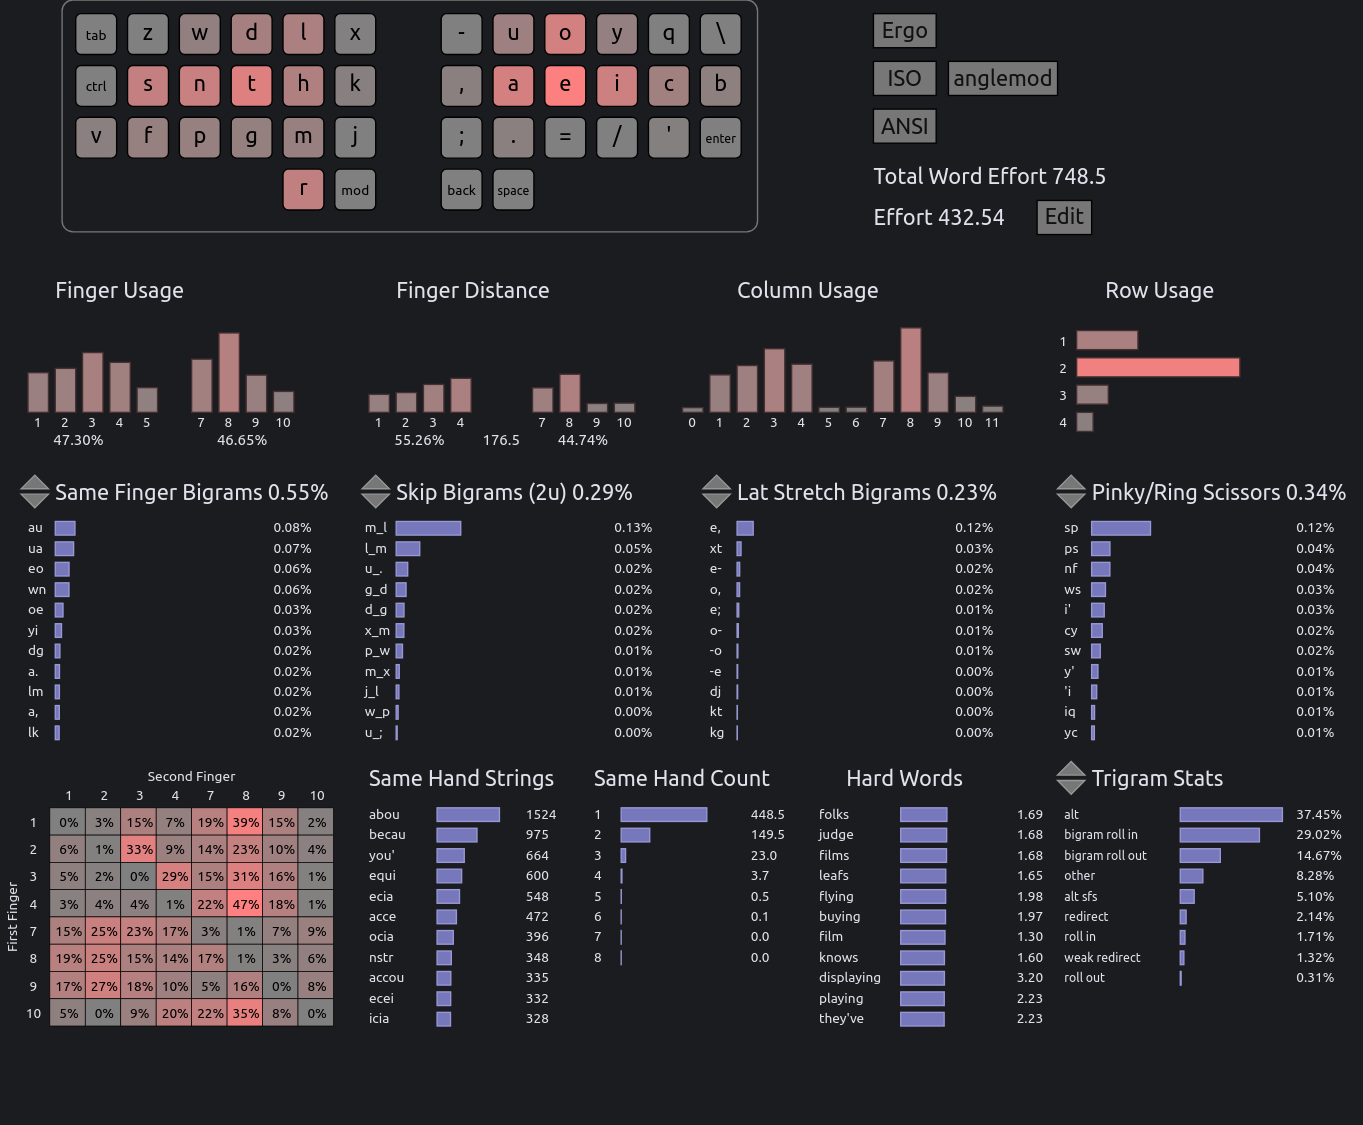
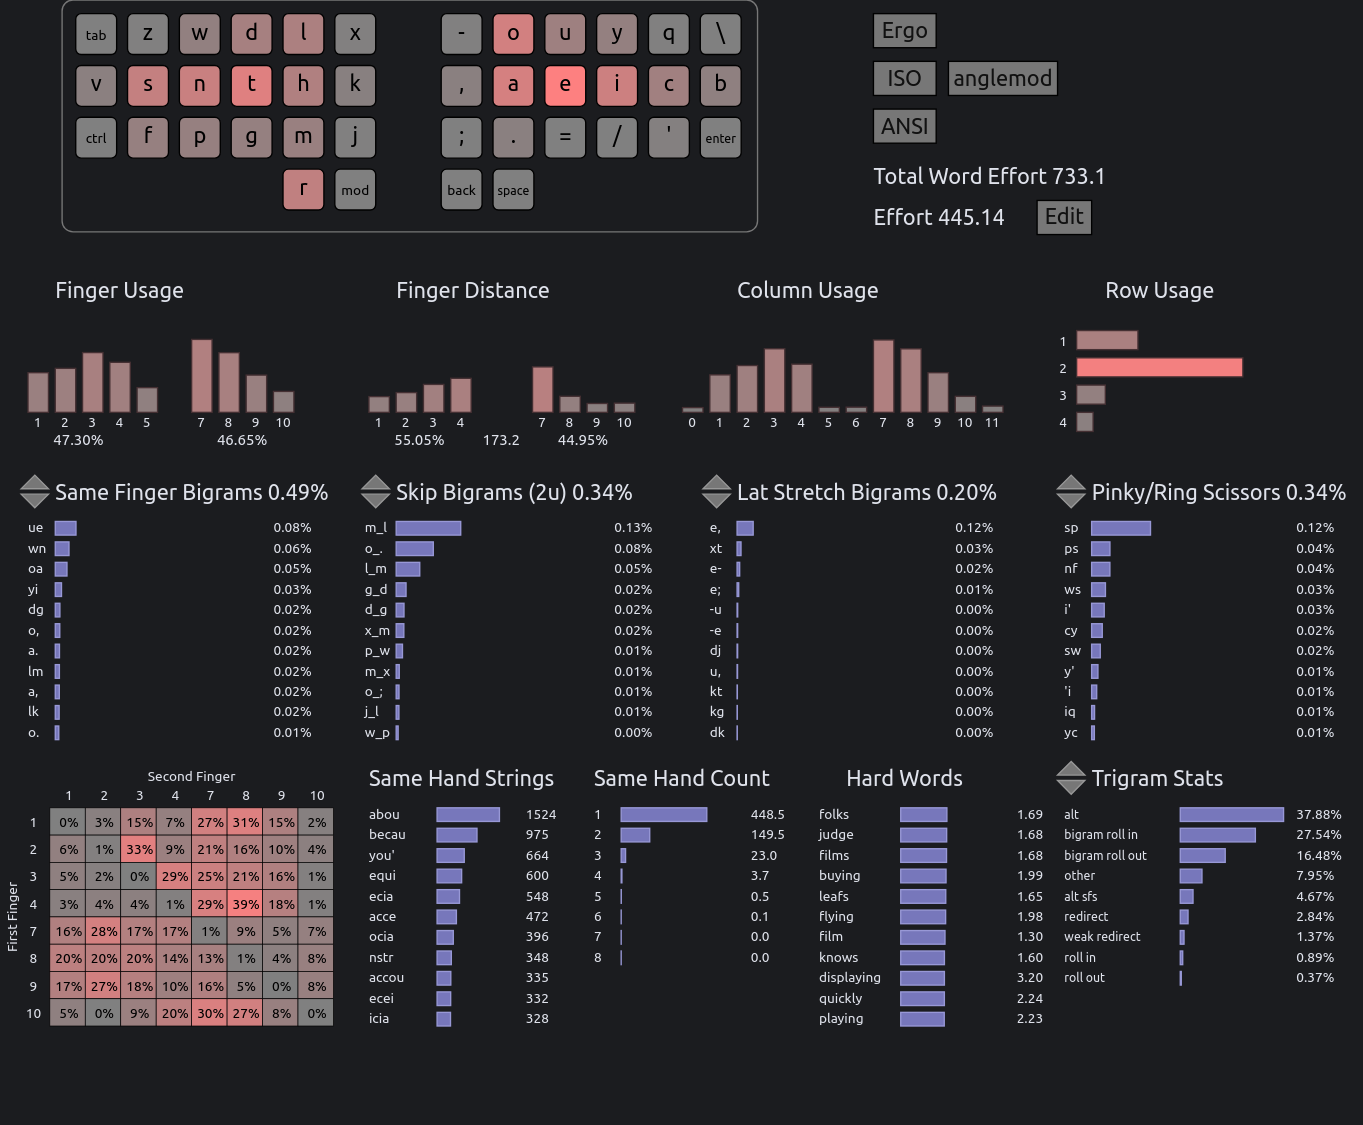
cyanophage: swap O/U for less 0.49% SFB, 0.20% LSB
https://reddit.com/r/KeyboardLayouts/comments/1l5ei0j/_/mwgusgt/

diff --git a/README.md b/README.md
@@ -24,7 +24,7 @@ days (start Friday and use weekend), to unlock all letters in [KeyBr] training.
 
 ## Layout
 
-      q y o u - x l d w z
+      q y u o - x l d w z
     b c i e a , k h t n s v
       ' / = . ; j m g p f
                 r
@@ -39,6 +39,7 @@ https://github.com/sunaku/glove80-keymaps/raw/main/README/base-layer-diagram-Ent
 * [Rationale](#rationale)
   * [Deviation: PF and WV](#deviation-pf-and-wv)
   * [Deviation: B and V](#deviation-b-and-v)
+  * [Deviation: O and U](#deviation-o-and-u)
 * [Performance](#performance)
   * [Cyanophage analyzer](#cyanophage-analyzer)
   * [KeySolve analyzer](#keysolve-analyzer)
@@ -120,36 +121,49 @@ The other analyzers don't fully comprehend the placement of lateral pinky keys,
 as explained in the note at the top of each analyzer's respective subheading,
 but Oxey's analyzer reports a notable reduction in SFBs from 0.829% to 0.818%.
 
+### Deviation: O and U
+
+O and U are swapped (changing the inward-rolling YOU into a redirecting YUO) to
+distribute finger workload more evenly (especially for the middle finger) and
+to avoid same-finger bigrams on AU (as in "*au*thor") and EO (as in "p*eo*ple").
+
+This change was [suggested by the creator of Cyanophage's Analyzer himself](
+https://reddit.com/r/KeyboardLayouts/comments/1l5ei0j/_/mwgusgt/ ) 🤩 since it
+reduced SFBs from 0.55% to 0.49% and LSBs from 0.23% to 0.20% in his analyzer.
+Similarly, it reduces SFBs to 0.795% in Oxey's analyzer, elevating this layout
+to [🥇 first place](#comparison) in Pascal Getreuer's famous performance table
+for both SFB and LSB categories!
+
 ## Performance
 
 ### [Cyanophage analyzer][cNT]
 
 > **NOTE:** This analyzer currently has a limitation where it only supports
-> placing a letter on the left thumb and not on the right, so this layout is
+> links with a letter on the left thumb, not on the right; so this layout is
 > mirrored horizontally for analysis.  Mirroring doesn't affect the results.
 
 ![Screenshot](stats/enthium/cyanophage.png)
 
 Overall stats:
-* Total Word Effort: 748.5
-* Effort:            432.54
+* Total Word Effort: 733.1
+* Effort:            445.14
 
 Finger usage:
-* Same Finger Bigrams: 0.55%
-* Skip Bigrams (2u):   0.29%
-* Lat Stretch Bigrams: 0.23%
+* Same Finger Bigrams: 0.49%
+* Skip Bigrams (2u):   0.34%
+* Lat Stretch Bigrams: 0.20%
 * Pinky/Ring Scissors: 0.34%
 
 Trigram stats:
-* alt:             37.45%
-* bigram roll in:  29.02%
-* bigram roll out: 14.67%
-* other:           8.28%
-* alt sfs:         5.10%
-* redirect:        2.14%
-* roll in:         1.71%
-* weak redirect:   1.32%
-* roll out:        0.31%
+* alt:             37.88%
+* bigram roll in:  27.54%
+* bigram roll out: 16.48%
+* other:           7.95%
+* alt sfs:         4.67%
+* redirect:        2.84%
+* weak redirect:   1.37%
+* roll in:         0.89%
+* roll out:        0.37%
 
 ### [KeySolve analyzer](https://grassfedreeve.github.io/keysolve-web/)
 
@@ -165,19 +179,19 @@ Trigram stats:
 
 Overall stats:
 
-    BIGRAMS     SFB: 0.97%      LSB: 0.44%      HSB: 4.79%      FSB: 0.35%
-    SKIPGRAMS   SFS: 6.99%      LSS: 0.92%      HSS: 4.66%      FSS: 0.38%
-    TRIGRAMS    ALT: 41.24%     ROL: 40.71%     ONE: 2.47%      RED: 1.66%
+    BIGRAMS     SFB: 0.76%      LSB: 0.43%      HSB: 4.86%      FSB: 0.35%
+    SKIPGRAMS   SFS: 6.33%      LSS: 0.73%      HSS: 5.88%      FSS: 0.38%
+    TRIGRAMS    ALT: 41.24%     ROL: 41.16%     ONE: 1.29%      RED: 2.93%
 
 Finger usage:
 
-    LEFT        LI: 13.91%      LM: 20.17%      LR: 8.70%       LP: 3.05%
+    LEFT        LI: 18.75%      LM: 15.33%      LR: 8.70%       LP: 3.05%
     RIGHT       RI: 13.12%      RM: 14.59%      RR: 10.60%      RP: 7.94%
     TOTAL               LH: 45.83%                      RH: 54.17%
 
 Custom source for copy/paste:
 
-    q y o u - x l d w z
+    q y u o - x l d w z
     c i e a , k h t n s
     ' / = . ; j m g p f
     r b v
@@ -193,28 +207,28 @@ Custom source for copy/paste:
 ![Screenshot](stats/enthium/oxey.png)
 
 Overall stats:
-* Sfb:              0.811%
-* Dsfb:             6.286%
-* Lsb:              0.372%
-* Inrolls:          29.442%
-* Outrolls:         15.841%
-* Total Rolls:      45.283%
-* Onehands:         2.348%
-* Alternates:       31.877%
-* Alternates (sfs): 7.284%
-* Total Alternates: 39.161%
-* Redirects:        3.864%
-* BadRedirects:     1.002%
-* Total Redirects:  4.866%
-* Other:            8.341%
+* Sfb:              0.795%
+* Dsfb:             6.360%
+* Lsb:              0.328%
+* Inrolls:          27.415%
+* Outrolls:         16.531%
+* Total Rolls:      43.945%
+* Onehands:         1.579%
+* Alternates:       34.297%
+* Alternates (sfs): 7.962%
+* Total Alternates: 42.259%
+* Redirects:        2.955%
+* BadRedirects:     1.033%
+* Total Redirects:  3.988%
+* Other:            8.228%
 * Invalid:          0.001%
 
 Finger usage:
 
     finger 0:   3.63%   finger 9:       8.60%
     finger 1:   9.08%   finger 8:       10.65%
-    finger 2:   19.30%  finger 7:       14.56%
-    finger 3:   13.28%  finger 6:       12.33%
+    finger 2:   14.58%  finger 7:       14.56%
+    finger 3:   18.00%  finger 6:       12.33%
 
     Left hand:   45.29% Right hand:     46.14%
     Left center: 1.384% Right center:   1.189%
@@ -225,8 +239,8 @@ Sfb% per finger:
 
     finger 0:   0.011%  finger 9:       0.024%
     finger 1:   0.047%  finger 8:       0.100%
-    finger 2:   0.122%  finger 7:       0.051%
-    finger 3:   0.339%  finger 6:       0.114%
+    finger 2:   0.148%  finger 7:       0.051%
+    finger 3:   0.237%  finger 6:       0.114%
 
 ### Comparison
 
@@ -242,10 +256,10 @@ The [keyboard layout community][rKL] commonly recommends [Pascal Getreuer's
 guide and comparison table][PGt] as a starting point for layout exploration,
 and you'll see that Enthium is among the best (statistically) layouts there:
 
-* 0.811% SFBs -- wins 🥈 second place; surpassed by Focal
-* 0.372% LSBs -- wins 🥇 first place; beats the entire table!
-* 45.283% rolls -- beats Nerps, Gallium, MTGAP, Graphite, Dvorak, Halmak, etc.
-* 4.866% redirects -- beats MTGAP, Sturdy, Recurva, APTv3, Canary, Colemak, etc.
+* 0.795% SFBs -- wins 🥇 first place; beats the entire table!
+* 0.328% LSBs -- wins 🥇 first place; beats the entire table!
+* 43.945% rolls -- beats MTGAP, Graphite, Workman, Semimak, Engram, Dvorak, Halmak, etc.
+* 3.988% redirects -- beats Focal, MTGAP, Sturdy, Recurva, APTv3, Canary, Colemak, etc.
 * 2.80% pinky off _excluding_ lateral -- beats Graphite, Canary, Gallium, MTGAP, etc.
   * `Q` (0.10%) + `'` (0.48%) + `Z` (0.10%) + `F` (2.12%)
 * 5.35% pinky off _including_ lateral -- beats Engram, Halmak; surpassed by the rest
@@ -256,7 +270,7 @@ and you'll see that Enthium is among the best (statistically) layouts there:
 
 For completeness, I've tabulated all [statistics for this and related layouts]( stats/ ):
 
-[cNT]: https://cyanophage.github.io/playground.html?layout=zwdlx-uoyq%5Csnthk%2Caeicbfpgmj%3B.%3D%2F%27vr&mode=ergo&lan=english
+[cNT]: https://cyanophage.github.io/playground.html?layout=zwdlx-ouyq%5Csnthk%2Caeicbfpgmj%3B.%3D%2F%27vr&mode=ergo&lan=english
 [cPM]: https://cyanophage.github.io/playground.html?layout=fpdlx%3Buoybzsnthk%2Caeicqvwgmj-.%27%3D%2F%5Cr&mode=ergo&lan=english
 [cNG]: https://cyanophage.github.io/playground.html?layout=byou%27%3Bldwvzciea%2C.htsnqgxjk-%2Frmfp%5C%5E&mode=ergo&lan=english
 [cDV]: https://cyanophage.github.io/playground.html?layout=%27%2C.pyfgcrl%2Faoeuidhtns-%3Bqjkxbmwvz%5C%5E&mode=ergo&lan=english
@@ -264,25 +278,25 @@ For completeness, I've tabulated all [statistics for this and related layouts]( 
 
 | Analyzer   | Category  | Statistic           | [Enthium][cNT] | [Promethium][cPM] | [Engrammer][cNG] | [Dvorak][cDV] | [Colemak-DH][cCD] |
 | ---------- | --------- | ------------------- | -------------- | ----------------- | ---------------- | ------------- | ----------------- |
-| Oxey's     | Bigrams   | SFB                 | 0.811%         | 0.868%            | 1.511%           | 2.779%        | 1.367%            |
-| Oxey's     | Bigrams   | DSFB                | 6.286%         | 6.761%            | 7.620%           | 6.979%        | 8.767%            |
-| Oxey's     | Bigrams   | LSB                 | 0.372%         | 0.404%            | 0.671%           | 1.255%        | 1.975%            |
-| Oxey's     | Trigrams  | Inrolls             | 29.442%        | 29.333%           | 28.273%          | 23.820%       | 25.173%           |
-| Oxey's     | Trigrams  | Outrolls            | 15.841%        | 14.526%           | 14.050%          | 15.104%       | 20.940%           |
-| Oxey's     | Trigrams  | Total Rolls         | 45.283%        | 43.858%           | 42.323%          | 38.924%       | 46.113%           |
-| Oxey's     | Trigrams  | Onehands            | 2.348%         | 2.189%            | 2.146%           | 0.624%        | 2.484%            |
-| Oxey's     | Trigrams  | Alternates          | 31.877%        | 33.770%           | 32.483%          | 35.769%       | 22.913%           |
-| Oxey's     | Trigrams  | Alternates (SFS)    | 7.284%         | 8.205%            | 8.752%           | 8.787%        | 7.461%            |
-| Oxey's     | Trigrams  | Total Alternates    | 39.161%        | 41.974%           | 41.235%          | 44.556%       | 30.375%           |
-| Oxey's     | Trigrams  | Redirects           | 3.864%         | 2.273%            | 3.103%           | 2.639%        | 9.081%            |
-| Oxey's     | Trigrams  | BadRedirects        | 1.002%         | 1.236%            | 1.386%           | 0.818%        | 1.498%            |
-| Oxey's     | Trigrams  | Total Redirects     | 4.866%         | 3.509%            | 4.489%           | 3.458%        | 10.579%           |
-| Oxey's     | Trigrams  | Other               | 8.341%         | 8.468%            | 9.806%           | 12.437%       | 9.202%            |
+| Oxey's     | Bigrams   | SFB                 | 0.795%         | 0.868%            | 1.511%           | 2.779%        | 1.367%            |
+| Oxey's     | Bigrams   | DSFB                | 6.360%         | 6.761%            | 7.620%           | 6.979%        | 8.767%            |
+| Oxey's     | Bigrams   | LSB                 | 0.328%         | 0.404%            | 0.671%           | 1.255%        | 1.975%            |
+| Oxey's     | Trigrams  | Inrolls             | 27.415%        | 29.333%           | 28.273%          | 23.820%       | 25.173%           |
+| Oxey's     | Trigrams  | Outrolls            | 16.531%        | 14.526%           | 14.050%          | 15.104%       | 20.940%           |
+| Oxey's     | Trigrams  | Total Rolls         | 43.945%        | 43.858%           | 42.323%          | 38.924%       | 46.113%           |
+| Oxey's     | Trigrams  | Onehands            | 1.579%         | 2.189%            | 2.146%           | 0.624%        | 2.484%            |
+| Oxey's     | Trigrams  | Alternates          | 34.297%        | 33.770%           | 32.483%          | 35.769%       | 22.913%           |
+| Oxey's     | Trigrams  | Alternates (SFS)    | 7.962%         | 8.205%            | 8.752%           | 8.787%        | 7.461%            |
+| Oxey's     | Trigrams  | Total Alternates    | 42.259%        | 41.974%           | 41.235%          | 44.556%       | 30.375%           |
+| Oxey's     | Trigrams  | Redirects           | 2.955%         | 2.273%            | 3.103%           | 2.639%        | 9.081%            |
+| Oxey's     | Trigrams  | BadRedirects        | 1.033%         | 1.236%            | 1.386%           | 0.818%        | 1.498%            |
+| Oxey's     | Trigrams  | Total Redirects     | 3.988%         | 3.509%            | 4.489%           | 3.458%        | 10.579%           |
+| Oxey's     | Trigrams  | Other               | 8.228%         | 8.468%            | 9.806%           | 12.437%       | 9.202%            |
 | Oxey's     | Trigrams  | Invalid             | 0.001%         | 0.001%            | 0.001%           | 0.001%        | 1.248%            |
 | Oxey's     | Usage     | Finger 0            | 3.63%          | 9.56%             | 6.58%            | 8.50%         | 8.12%             |
 | Oxey's     | Usage     | Finger 1            | 9.08%          | 10.65%            | 9.21%            | 8.72%         | 8.04%             |
-| Oxey's     | Usage     | Finger 2            | 19.30%         | 14.56%            | 19.47%           | 12.99%        | 11.55%            |
-| Oxey's     | Usage     | Finger 3            | 13.28%         | 12.33%            | 13.35%           | 14.95%        | 19.19%            |
+| Oxey's     | Usage     | Finger 2            | 14.58%         | 14.56%            | 19.47%           | 12.99%        | 11.55%            |
+| Oxey's     | Usage     | Finger 3            | 18.00%         | 12.33%            | 13.35%           | 14.95%        | 19.19%            |
 | Oxey's     | Usage     | Finger 6            | 12.33%         | 13.28%            | 16.04%           | 16.33%        | 18.88%            |
 | Oxey's     | Usage     | Finger 7            | 14.56%         | 19.77%            | 14.93%           | 13.73%        | 15.60%            |
 | Oxey's     | Usage     | Finger 8            | 10.65%         | 9.01%             | 10.31%           | 13.84%        | 10.11%            |
@@ -294,26 +308,26 @@ For completeness, I've tabulated all [statistics for this and related layouts]( 
 | Oxey's     | Usage     | Home keys           | 56.37%         | 56.37%            | 56.37%           | 56.70%        | 62.31%            |
 | Oxey's     | SFB%      | Finger 0            | 0.011%         | 0.028%            | 0.012%           | 0.020%        | 0.041%            |
 | Oxey's     | SFB%      | Finger 1            | 0.047%         | 0.100%            | 0.089%           | 0.028%        | 0.047%            |
-| Oxey's     | SFB%      | Finger 2            | 0.122%         | 0.051%            | 0.230%           | 0.253%        | 0.186%            |
-| Oxey's     | SFB%      | Finger 3            | 0.339%         | 0.114%            | 0.591%           | 1.075%        | 0.219%            |
+| Oxey's     | SFB%      | Finger 2            | 0.148%         | 0.051%            | 0.230%           | 0.253%        | 0.186%            |
+| Oxey's     | SFB%      | Finger 3            | 0.237%         | 0.114%            | 0.591%           | 1.075%        | 0.219%            |
 | Oxey's     | SFB%      | Finger 6            | 0.114%         | 0.339%            | 0.380%           | 0.433%        | 0.388%            |
 | Oxey's     | SFB%      | Finger 7            | 0.051%         | 0.185%            | 0.053%           | 0.494%        | 0.341%            |
 | Oxey's     | SFB%      | Finger 8            | 0.100%         | 0.040%            | 0.098%           | 0.256%        | 0.137%            |
 | Oxey's     | SFB%      | Finger 9            | 0.024%         | 0.011%            | 0.058%           | 0.220%        | 0.007%            |
-| KeySolve   | Bigrams   | SFB                 | 0.97%          | 0.94%             | 1.56%            | 2.62%         | 1.49%             |
-| KeySolve   | Bigrams   | LSB                 | 0.44%          | 0.45%             | 0.98%            | 1.17%         | 2.21%             |
-| KeySolve   | Bigrams   | HSB                 | 4.79%          | 6.04%             | 3.02%            | 6.11%         | 5.93%             |
+| KeySolve   | Bigrams   | SFB                 | 0.76%          | 0.94%             | 1.56%            | 2.62%         | 1.49%             |
+| KeySolve   | Bigrams   | LSB                 | 0.43%          | 0.45%             | 0.98%            | 1.17%         | 2.21%             |
+| KeySolve   | Bigrams   | HSB                 | 4.86%          | 6.04%             | 3.02%            | 6.11%         | 5.93%             |
 | KeySolve   | Bigrams   | FSB                 | 0.35%          | 0.26%             | 0.30%            | 0.14%         | 0.37%             |
-| KeySolve   | Skipgrams | SFS                 | 6.99%          | 7.02%             | 7.50%            | 7.00%         | 7.95%             |
-| KeySolve   | Skipgrams | LSS                 | 0.92%          | 0.93%             | 1.34%            | 4.48%         | 1.75%             |
-| KeySolve   | Skipgrams | HSS                 | 4.66%          | 6.11%             | 6.91%            | 8.56%         | 6.49%             |
+| KeySolve   | Skipgrams | SFS                 | 6.33%          | 7.02%             | 7.50%            | 7.00%         | 7.95%             |
+| KeySolve   | Skipgrams | LSS                 | 0.73%          | 0.93%             | 1.34%            | 4.48%         | 1.75%             |
+| KeySolve   | Skipgrams | HSS                 | 5.88%          | 6.11%             | 6.91%            | 8.56%         | 6.49%             |
 | KeySolve   | Skipgrams | FSS                 | 0.38%          | 0.78%             | 0.81%            | 1.22%         | 0.78%             |
 | KeySolve   | Trigrams  | ALT                 | 41.24%         | 40.37%            | 39.59%           | 41.70%        | 27.58%            |
-| KeySolve   | Trigrams  | ROL                 | 40.71%         | 40.84%            | 39.35%           | 37.19%        | 42.78%            |
-| KeySolve   | Trigrams  | ONE                 | 2.47%          | 2.66%             | 2.65%            | 0.43%         | 2.45%             |
-| KeySolve   | Trigrams  | RED                 | 1.66%          | 1.78%             | 2.65%            | 2.25%         | 6.74%             |
-| KeySolve   | Usage     | LI                  | 13.91%         | 13.91%            | 13.91%           | 14.56%        | 18.82%            |
-| KeySolve   | Usage     | LM                  | 20.17%         | 20.92%            | 20.30%           | 13.96%        | 10.18%            |
+| KeySolve   | Trigrams  | ROL                 | 41.16%         | 40.84%            | 39.35%           | 37.19%        | 42.78%            |
+| KeySolve   | Trigrams  | ONE                 | 1.29%          | 2.66%             | 2.65%            | 0.43%         | 2.45%             |
+| KeySolve   | Trigrams  | RED                 | 2.93%          | 1.78%             | 2.65%            | 2.25%         | 6.74%             |
+| KeySolve   | Usage     | LI                  | 18.75%         | 13.91%            | 13.91%           | 14.56%        | 18.82%            |
+| KeySolve   | Usage     | LM                  | 15.33%         | 20.92%            | 20.30%           | 13.96%        | 10.18%            |
 | KeySolve   | Usage     | LR                  | 8.70%          | 8.70%             | 8.83%            | 9.55%         | 7.83%             |
 | KeySolve   | Usage     | LP                  | 3.05%          | 3.64%             | 5.72%            | 8.24%         | 7.63%             |
 | KeySolve   | Usage     | RI                  | 13.12%         | 13.12%            | 16.52%           | 16.90%        | 20.00%            |
@@ -322,21 +336,21 @@ For completeness, I've tabulated all [statistics for this and related layouts]( 
 | KeySolve   | Usage     | RP                  | 7.94%          | 8.95%             | 9.47%            | 10.08%        | 8.16%             |
 | KeySolve   | Total     | LH                  | 45.83%         | 47.18%            | 48.75%           | 46.31%        | 44.46%            |
 | KeySolve   | Total     | RH                  | 54.17%         | 52.82%            | 51.25%           | 53.69%        | 55.54%            |
-| Cyanophage | Summary   | Total Word Effort   | 748.5          | 732.3             | 899.8            | 1185.5        | 1048.2            |
-| Cyanophage | Summary   | Effort              | 432.54         | 398.07            | 457.44           | 769.78        | 535.05            |
-| Cyanophage | Bigrams   | Same Finger Bigrams | 0.55%          | 0.58%             | 0.99%            | 1.87%         | 0.91%             |
-| Cyanophage | Bigrams   | Skip Bigrams (2u)   | 0.29%          | 0.36%             | 0.39%            | 0.45%         | 0.41%             |
-| Cyanophage | Bigrams   | Lat Stretch Bigrams | 0.23%          | 0.24%             | 0.41%            | 0.80%         | 1.27%             |
+| Cyanophage | Summary   | Total Word Effort   | 733.1          | 732.3             | 899.8            | 1185.5        | 1048.2            |
+| Cyanophage | Summary   | Effort              | 445.14         | 398.07            | 457.44           | 769.78        | 535.05            |
+| Cyanophage | Bigrams   | Same Finger Bigrams | 0.49%          | 0.58%             | 0.99%            | 1.87%         | 0.91%             |
+| Cyanophage | Bigrams   | Skip Bigrams (2u)   | 0.34%          | 0.36%             | 0.39%            | 0.45%         | 0.41%             |
+| Cyanophage | Bigrams   | Lat Stretch Bigrams | 0.20%          | 0.24%             | 0.41%            | 0.80%         | 1.27%             |
 | Cyanophage | Bigrams   | Pinky/Ring Scissors | 0.34%          | 0.42%             | 0.71%            | 0.40%         | 0.65%             |
-| Cyanophage | Trigrams  | Alt                 | 37.45%         | 36.98%            | 35.62%           | 39.08%        | 25.43%            |
-| Cyanophage | Trigrams  | Alt SFS             | 5.10%          | 5.27%             | 5.93%            | 5.85%         | 5.47%             |
-| Cyanophage | Trigrams  | Roll in             | 1.71%          | 1.37%             | 1.82%            | 0.86%         | 1.50%             |
-| Cyanophage | Trigrams  | Roll out            | 0.31%          | 0.11%             | 0.29%            | 0.27%         | 0.98%             |
-| Cyanophage | Trigrams  | Bigram roll in      | 29.02%         | 29.18%            | 28.14%           | 23.51%        | 25.18%            |
-| Cyanophage | Trigrams  | Bigram roll out     | 14.67%         | 14.56%            | 14.03%           | 15.14%        | 21.55%            |
-| Cyanophage | Trigrams  | Redirect            | 2.14%          | 2.03%             | 3.05%            | 2.57%         | 9.22%             |
-| Cyanophage | Trigrams  | Weak redirect       | 1.32%          | 1.30%             | 1.40%            | 0.28%         | 1.52%             |
-| Cyanophage | Trigrams  | Other               | 8.28%          | 9.20%             | 9.72%            | 12.44%        | 9.17%             |
+| Cyanophage | Trigrams  | Alt                 | 37.88%         | 36.98%            | 35.62%           | 39.08%        | 25.43%            |
+| Cyanophage | Trigrams  | Alt SFS             | 4.67%          | 5.27%             | 5.93%            | 5.85%         | 5.47%             |
+| Cyanophage | Trigrams  | Roll in             | 0.89%          | 1.37%             | 1.82%            | 0.86%         | 1.50%             |
+| Cyanophage | Trigrams  | Roll out            | 0.37%          | 0.11%             | 0.29%            | 0.27%         | 0.98%             |
+| Cyanophage | Trigrams  | Bigram roll in      | 27.54%         | 29.18%            | 28.14%           | 23.51%        | 25.18%            |
+| Cyanophage | Trigrams  | Bigram roll out     | 16.48%         | 14.56%            | 14.03%           | 15.14%        | 21.55%            |
+| Cyanophage | Trigrams  | Redirect            | 2.84%          | 2.03%             | 3.05%            | 2.57%         | 9.22%             |
+| Cyanophage | Trigrams  | Weak redirect       | 1.37%          | 1.30%             | 1.40%            | 0.28%         | 1.52%             |
+| Cyanophage | Trigrams  | Other               | 7.95%          | 9.20%             | 9.72%            | 12.44%        | 9.17%             |
 
 ## Installation
 
